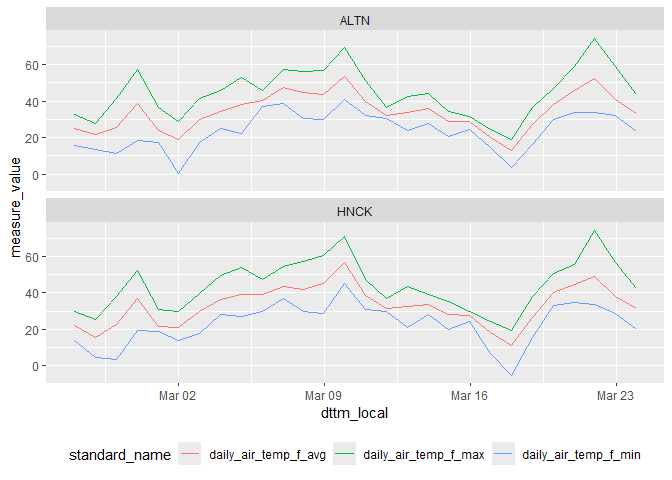
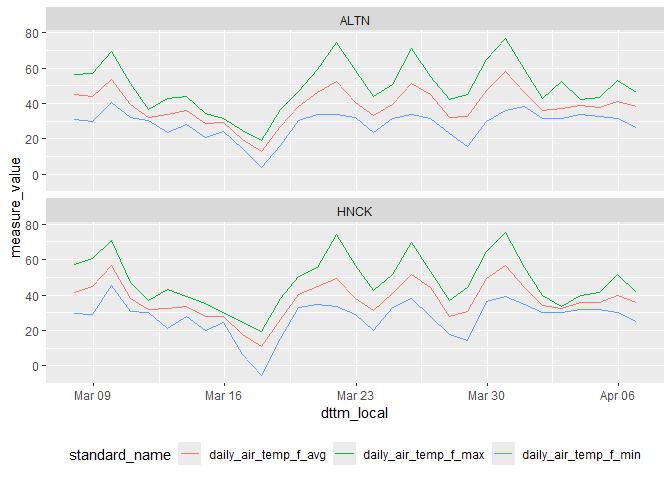
update with api throttle
- Update API calls to use req_throttle respecting the new default Wisconet quota
- Add req_retry to allow retrying if error or throttle is hit
- Move options into config object in the class

diff --git a/README.md b/README.md
@@ -27,16 +27,41 @@ library(rwisconet)
 wn <- Wisconet$new()
 wn
 #> <Wisconet API>
-#>   Timezone: America/Chicago 
 #>   Stations: 78 
-#>   Fields: 253
+#>   Fields: 253 
+#>   Config:
+#>     timezone: America/Chicago
+#>     capacity: 20
+#>     fill_time_s: 20
+#>     max_tries: 5
+#>     max_concurrent: 10
 ```
 
-You can skip the initial metadata fetch or use a different timezone.
-Normally you would not do this.
+You can skip the initial metadata fetch or use a different timezone, but
+normally you would leave the default settings.
 
 ``` r
 wn <- Wisconet$new(timezone = "US/Eastern", fetch_on_init = FALSE)
+```
+
+The timezone is stored in for example `wn$config$timezone`. There are
+several other configuration options you can set that affect the
+throttling, concurrency, or retry behavior of API calls to Wisconet.
+Each can be set like `wn$config${config_name} <- {config_value}`, but
+default values should work fine. See all config options and values using
+`wn$print()`:
+
+``` r
+wn$print()
+#> <Wisconet API>
+#>   Stations: 78 
+#>   Fields: 253 
+#>   Config:
+#>     timezone: America/Chicago
+#>     capacity: 20
+#>     fill_time_s: 20
+#>     max_tries: 5
+#>     max_concurrent: 10
 ```
 
 ### Explore stations
@@ -203,8 +228,8 @@ obs <- wn$get_measures(
   start_time = now() - days(1),
   end_time = now()
 )
-#> GET ==> HNCK: 2026-03-23 17:16:45.988679 to 2026-03-24 17:16:45.990667
-#>   Received 286 observations in 0.148s
+#> GET ==> HNCK: 2026-04-06 10:17:11.768991 to 2026-04-07 10:17:11.770945
+#>   Received 286 observations in 3.272s
 
 glimpse(obs)
 #> Rows: 858
@@ -224,12 +249,12 @@ glimpse(obs)
 #> $ earliest_api_date    <date> 2023-02-02, 2023-02-02, 2023-02-02, 2023-02-02, …
 #> $ madis_id             <chr> "WIHCK", "WIHCK", "WIHCK", "WIHCK", "WIHCK", "WIH…
 #> $ climate_division     <chr> "Central", "Central", "Central", "Central", "Cent…
-#> $ collection_time      <int> 1774304400, 1774304400, 1774304400, 1774304700, 1…
-#> $ dttm                 <dttm> 2026-03-23 22:20:00, 2026-03-23 22:20:00, 2026-0…
-#> $ dttm_local           <dttm> 2026-03-23 17:20:00, 2026-03-23 17:20:00, 2026-0…
-#> $ date                 <date> 2026-03-23, 2026-03-23, 2026-03-23, 2026-03-23, …
+#> $ collection_time      <int> 1775488800, 1775488800, 1775488800, 1775489100, 1…
+#> $ dttm                 <dttm> 2026-04-06 15:20:00, 2026-04-06 15:20:00, 2026-0…
+#> $ dttm_local           <dttm> 2026-04-06 10:20:00, 2026-04-06 10:20:00, 2026-0…
+#> $ date                 <date> 2026-04-06, 2026-04-06, 2026-04-06, 2026-04-06, …
 #> $ measure_id           <int> 1, 18, 55, 1, 18, 55, 1, 18, 55, 1, 18, 55, 1, 18…
-#> $ measure_value        <dbl> 41.7, 31.5, 1.3, 42.3, 31.9, 1.0, 41.3, 31.7, 1.7…
+#> $ measure_value        <dbl> 40.9, 61.0, 10.8, 40.6, 60.6, 10.7, 39.9, 57.9, 1…
 #> $ standard_name        <chr> "5min_air_temp_f_avg", "5min_relative_humidity_pc…
 #> $ measure_type         <chr> "Air Temp", "Relative Humidity", "Wind Speed", "A…
 #> $ qualifier            <chr> "avg", "avg", "avg", "avg", "avg", "avg", "avg", …
@@ -255,10 +280,10 @@ obs <- wn$get_measures_stations(
   end_time = now()
 )
 #> Fetching 2 stations
-#>   Done: 2/2 stations returned data in 0.9s
+#>   Done: 2/2 stations returned data in 2.0s
 
 glimpse(obs)
-#> Rows: 1,716
+#> Rows: 1,719
 #> Columns: 31
 #> $ station_id           <chr> "ALTN", "ALTN", "ALTN", "ALTN", "ALTN", "ALTN", "…
 #> $ station_slug         <chr> "arlington", "arlington", "arlington", "arlington…
@@ -275,12 +300,12 @@ glimpse(obs)
 #> $ earliest_api_date    <date> 2023-05-22, 2023-05-22, 2023-05-22, 2023-05-22, …
 #> $ madis_id             <chr> "WIALT", "WIALT", "WIALT", "WIALT", "WIALT", "WIA…
 #> $ climate_division     <chr> "South Central", "South Central", "South Central"…
-#> $ collection_time      <int> 1774304400, 1774304400, 1774304400, 1774304700, 1…
-#> $ dttm                 <dttm> 2026-03-23 22:20:00, 2026-03-23 22:20:00, 2026-0…
-#> $ dttm_local           <dttm> 2026-03-23 17:20:00, 2026-03-23 17:20:00, 2026-0…
-#> $ date                 <date> 2026-03-23, 2026-03-23, 2026-03-23, 2026-03-23, …
+#> $ collection_time      <int> 1775488800, 1775488800, 1775488800, 1775489100, 1…
+#> $ dttm                 <dttm> 2026-04-06 15:20:00, 2026-04-06 15:20:00, 2026-0…
+#> $ dttm_local           <dttm> 2026-04-06 10:20:00, 2026-04-06 10:20:00, 2026-0…
+#> $ date                 <date> 2026-04-06, 2026-04-06, 2026-04-06, 2026-04-06, …
 #> $ measure_id           <int> 1, 18, 55, 1, 18, 55, 1, 18, 55, 1, 18, 55, 1, 18…
-#> $ measure_value        <dbl> 43.1, 27.1, 1.6, 43.2, 27.0, 0.2, 43.7, 27.1, 1.6…
+#> $ measure_value        <dbl> 40.4, 70.5, 14.8, 40.3, 72.7, 12.3, 40.7, 72.5, 1…
 #> $ standard_name        <chr> "5min_air_temp_f_avg", "5min_relative_humidity_pc…
 #> $ measure_type         <chr> "Air Temp", "Relative Humidity", "Wind Speed", "A…
 #> $ qualifier            <chr> "avg", "avg", "avg", "avg", "avg", "avg", "avg", …
@@ -319,7 +344,7 @@ obs <- wn$get_measures_stations(
   end_time = ends
 )
 #> Fetching 2 stations
-#>   Done: 2/2 stations returned data in 0.4s
+#>   Done: 2/2 stations returned data in 1.1s
 
 glimpse(obs)
 #> Rows: 42
@@ -339,12 +364,12 @@ glimpse(obs)
 #> $ earliest_api_date    <date> 2023-05-22, 2023-05-22, 2023-05-22, 2023-05-22, …
 #> $ madis_id             <chr> "WIALT", "WIALT", "WIALT", "WIALT", "WIALT", "WIA…
 #> $ climate_division     <chr> "South Central", "South Central", "South Central"…
-#> $ collection_time      <int> 1769320800, 1769320800, 1769320800, 1769407200, 1…
-#> $ dttm                 <dttm> 2026-01-25 06:00:00, 2026-01-25 06:00:00, 2026-0…
-#> $ dttm_local           <dttm> 2026-01-25, 2026-01-25, 2026-01-25, 2026-01-26, …
-#> $ date                 <date> 2026-01-25, 2026-01-25, 2026-01-25, 2026-01-26, …
+#> $ collection_time      <int> 1770530400, 1770530400, 1770530400, 1770616800, 1…
+#> $ dttm                 <dttm> 2026-02-08 06:00:00, 2026-02-08 06:00:00, 2026-0…
+#> $ dttm_local           <dttm> 2026-02-08, 2026-02-08, 2026-02-08, 2026-02-09, …
+#> $ date                 <date> 2026-02-08, 2026-02-08, 2026-02-08, 2026-02-09, …
 #> $ measure_id           <int> 3, 4, 6, 3, 4, 6, 3, 4, 6, 3, 4, 6, 3, 4, 6, 3, 4…
-#> $ measure_value        <dbl> -9.9, -4.0, -17.0, -2.0, 2.8, -5.6, -0.2, 8.6, -9…
+#> $ measure_value        <dbl> 12.6, 17.6, 2.8, 22.1, 27.0, 15.6, 27.1, 34.2, 15…
 #> $ standard_name        <chr> "daily_air_temp_f_avg", "daily_air_temp_f_max", "…
 #> $ measure_type         <chr> "Air Temp", "Air Temp", "Air Temp", "Air Temp", "…
 #> $ qualifier            <chr> "avg", "max", "min", "avg", "max", "min", "avg", …
@@ -359,7 +384,8 @@ glimpse(obs)
 
 #### All active stations
 
-Use `get_measures_all()` to query every active station:
+Use `get_measures_all()` to query every active station. Note that this
+will hit the API throttle and may take a minute to resolve.
 
 ``` r
 obs <- wn$get_measures_all(
@@ -367,43 +393,8 @@ obs <- wn$get_measures_all(
   start_time = today() - days(3),
   end_time = today()
 )
-#> Fetching 78 stations
-#>   Done: 78/78 stations returned data in 2.8s
 
 glimpse(obs)
-#> Rows: 702
-#> Columns: 31
-#> $ station_id           <chr> "ANGO", "ANGO", "ANGO", "ANGO", "ANGO", "ANGO", "…
-#> $ station_slug         <chr> "antigo", "antigo", "antigo", "antigo", "antigo",…
-#> $ station_name         <chr> "Antigo", "Antigo", "Antigo", "Antigo", "Antigo",…
-#> $ latitude             <dbl> 45.1589, 45.1589, 45.1589, 45.1589, 45.1589, 45.1…
-#> $ longitude            <dbl> -89.1178, -89.1178, -89.1178, -89.1178, -89.1178,…
-#> $ elevation            <dbl> 461, 461, 461, 461, 461, 461, 461, 461, 461, 304,…
-#> $ location             <chr> "Langlade County Airport", "Langlade County Airpo…
-#> $ station_timezone     <chr> "US/Central", "US/Central", "US/Central", "US/Cen…
-#> $ city                 <chr> "Antigo", "Antigo", "Antigo", "Antigo", "Antigo",…
-#> $ county               <chr> "Langlade", "Langlade", "Langlade", "Langlade", "…
-#> $ region               <chr> "Northeast", "Northeast", "Northeast", "Northeast…
-#> $ state                <chr> "WI", "WI", "WI", "WI", "WI", "WI", "WI", "WI", "…
-#> $ earliest_api_date    <date> 2024-09-11, 2024-09-11, 2024-09-11, 2024-09-11, …
-#> $ madis_id             <chr> "WIANT", "WIANT", "WIANT", "WIANT", "WIANT", "WIA…
-#> $ climate_division     <chr> "Northeast", "Northeast", "Northeast", "Northeast…
-#> $ collection_time      <int> 1774069200, 1774069200, 1774069200, 1774155600, 1…
-#> $ dttm                 <dttm> 2026-03-21 05:00:00, 2026-03-21 05:00:00, 2026-0…
-#> $ dttm_local           <dttm> 2026-03-21, 2026-03-21, 2026-03-21, 2026-03-22, …
-#> $ date                 <date> 2026-03-21, 2026-03-21, 2026-03-21, 2026-03-22, …
-#> $ measure_id           <int> 3, 4, 6, 3, 4, 6, 3, 4, 6, 3, 4, 6, 3, 4, 6, 3, 4…
-#> $ measure_value        <dbl> 43.3, 55.8, 33.3, 39.7, 54.0, 31.8, 29.7, 43.7, 2…
-#> $ standard_name        <chr> "daily_air_temp_f_avg", "daily_air_temp_f_max", "…
-#> $ measure_type         <chr> "Air Temp", "Air Temp", "Air Temp", "Air Temp", "…
-#> $ qualifier            <chr> "avg", "max", "min", "avg", "max", "min", "avg", …
-#> $ source_field         <chr> "WN_calc", "airtemp_c_max@Table24", "airtemp_c_mi…
-#> $ data_type            <chr> "float", "float", "float", "float", "float", "flo…
-#> $ source_units         <chr> "celsius", "celsius", "celsius", "celsius", "cels…
-#> $ final_units          <chr> "fahrenheit", "fahrenheit", "fahrenheit", "fahren…
-#> $ units_abbrev         <chr> "f", "f", "f", "f", "f", "f", "f", "f", "f", "f",…
-#> $ conversion_type      <chr> "c2f", "c2f", "c2f", "c2f", "c2f", "c2f", "c2f", …
-#> $ collection_frequency <chr> "daily", "daily", "daily", "daily", "daily", "dai…
 ```
 
 ### Handling received data
@@ -419,7 +410,7 @@ obs <- wn$get_measures_stations(
   end_time = now()
 )
 #> Fetching 2 stations
-#>   Done: 2/2 stations returned data in 0.7s
+#> Fetching station data ■■■■■■■■■■■■■■■■                  50% | ETA:  2s                                                                        Done: 2/2 stations returned data in 2.1s
 
 select_obs <- obs |>
   select(station_id, dttm_local, date, standard_name, measure_value)
@@ -427,15 +418,22 @@ select_obs <- obs |>
 obs_wide <- select_obs |>
   pivot_wider(names_from = standard_name, values_from = measure_value)
 
-glimpse(obs_wide)
-#> Rows: 56
-#> Columns: 6
-#> $ station_id           <chr> "ALTN", "ALTN", "ALTN", "ALTN", "ALTN", "ALTN", "…
-#> $ dttm_local           <dttm> 2026-02-25, 2026-02-26, 2026-02-27, 2026-02-28, …
-#> $ date                 <date> 2026-02-25, 2026-02-26, 2026-02-27, 2026-02-28, …
-#> $ daily_air_temp_f_avg <dbl> 25.2, 21.6, 25.7, 39.0, 23.7, 19.0, 29.7, 34.2, 3…
-#> $ daily_air_temp_f_max <dbl> 32.7, 27.5, 41.5, 57.6, 36.3, 28.9, 41.7, 46.0, 5…
-#> $ daily_air_temp_f_min <dbl> 15.8, 13.5, 11.3, 18.5, 17.4, 0.5, 17.2, 25.0, 22…
+obs_wide
+#> # A tibble: 62 × 6
+#>    station_id dttm_local          date       daily_air_temp_f_avg
+#>    <chr>      <dttm>              <date>                    <dbl>
+#>  1 ALTN       2026-03-08 00:00:00 2026-03-08                 44.8
+#>  2 ALTN       2026-03-09 00:00:00 2026-03-09                 43.7
+#>  3 ALTN       2026-03-10 00:00:00 2026-03-10                 53.6
+#>  4 ALTN       2026-03-11 00:00:00 2026-03-11                 39.6
+#>  5 ALTN       2026-03-12 00:00:00 2026-03-12                 32.2
+#>  6 ALTN       2026-03-13 00:00:00 2026-03-13                 34  
+#>  7 ALTN       2026-03-14 00:00:00 2026-03-14                 36.1
+#>  8 ALTN       2026-03-15 00:00:00 2026-03-15                 28.9
+#>  9 ALTN       2026-03-16 00:00:00 2026-03-16                 29.1
+#> 10 ALTN       2026-03-17 00:00:00 2026-03-17                 19.9
+#> # ℹ 52 more rows
+#> # ℹ 2 more variables: daily_air_temp_f_max <dbl>, daily_air_temp_f_min <dbl>
 ```
 
 Generate a simple figure from the returned data:
@@ -455,17 +453,17 @@ select_obs |>
 Common tasks:
 
 ``` r
-# run tests
-testthat::test_dir("tests")
-
-# build documentation
-devtools::document()
-
 # check package
 devtools::check()
 
 # build package
 devtools::build()
+
+# run tests
+testthat::test_dir("tests")
+
+# build documentation
+devtools::document()
 
 # build readme from Rmd
 devtools::build_readme()
